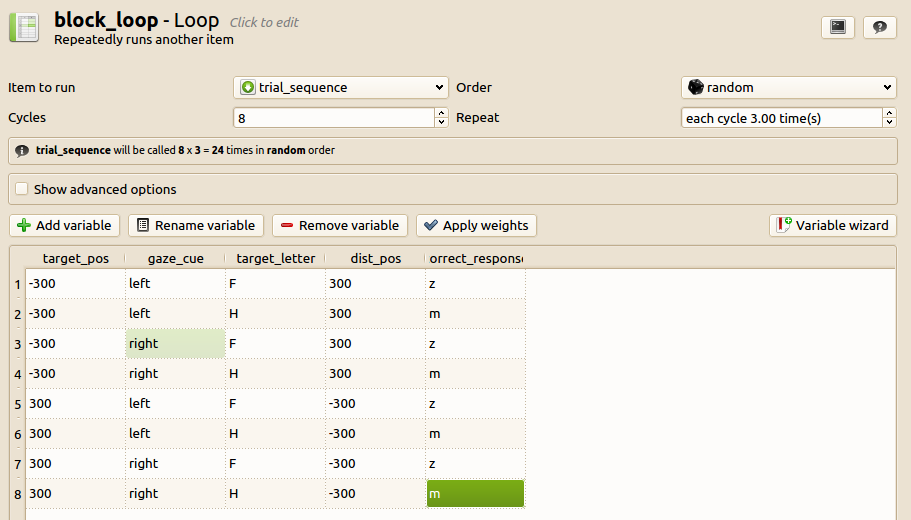
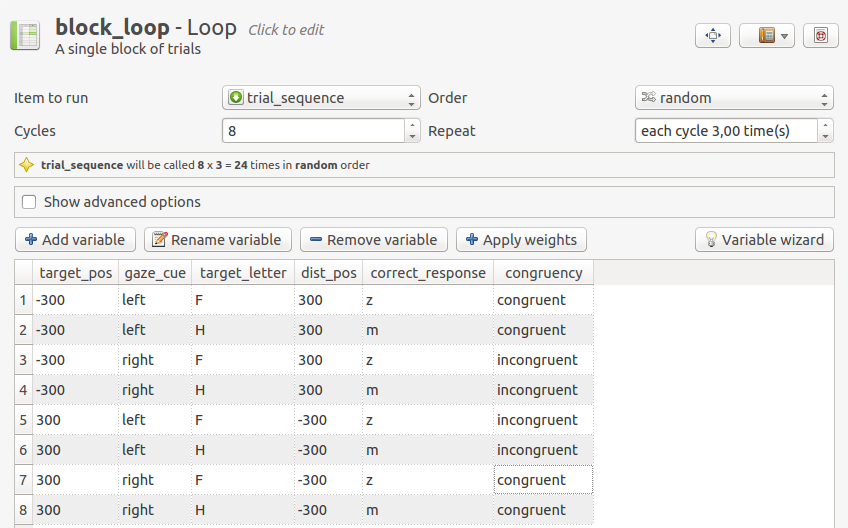
Update tutorial to contain congruency variable
- Add congruency variable in step-by-step face cueing tutorial
- Changed screenshot of step3 to show this variable
- Corrected typo 'correct response z'

diff --git a/content/tutorials/step-by-step-tutorial.md b/content/tutorials/step-by-step-tutorial.md
@@ -260,7 +260,13 @@ figure:
 However, we are not done yet. There are two more variables that we need to add: the location of the distractor and the correct response.
 
 - __dist_pos__ -- Click on 'Add variable' and type 'dist_pos 300' in the dialog that appears. This will create a variable called 'dist_pos', with the value '300'. Change the value of 'dist_pos' to '-300' in every row where 'target_pos' is '300'. By doing this, we make sure that the distractor is always presented opposite from the target.
-- __correct_response__ -- Click on 'Add variable' and type 'correct_response z' in the dialog that appears. Change 'correct_response' to 'm'  where 'target_letter' is 'H'. This means that the participant should press the 'z' key if he/ she sees an 'F' and the 'm' key if he/ she sees an 'H'.
+- __correct_response__ -- Click on 'Add variable' and type 'correct_response' in the dialog that appears. Change 'correct_response' to 'm'  where 'target_letter' is 'H'. This means that the participant should press the 'z' key if he/ she sees an 'F' and the 'm' key if he/ she sees an 'H'.
+
+Add one more variable which indicates if the face was looking at the target letter or at the distractor.
+
+- __congruency__ -- Click on 'Add variable' and type 'congruency' in the dialog that appears. Change 'congruency' to 'congruent' where 'target_pos' is '-300' and 'gaze_cue' is 'left', and where 'target_pos' is '300' and 'gaze_cue' is 'right' (these are the values with which the face will look at the targer letter). Change the value of 'congruency' to 'incronguent' of the rows in which the face will look at the distractor. Thus, where 'target_pos' is '-300' and 'gaze_cue' is 'right', and where 'target_pos' is '300' and 'gaze_cue' is 'left'.
+
+This variable is useful if you want to analyze your data later on. If you don't add this variable here, you will have still have to manually specify later whether the cue was valid or not.
 
 There is one last thing to be done. 'Repeat' is currently set to '1.00'. This means that each cycle will be executed once. So the block now consists of 8 trials, which is a bit short. A reasonable length for a block of trials is 24, so set 'Repeat' to 3.00 (3 repeats x 8 cycles = 24 trials). You don't need to change 'Order', because 'random' is exactly what we want.
 
